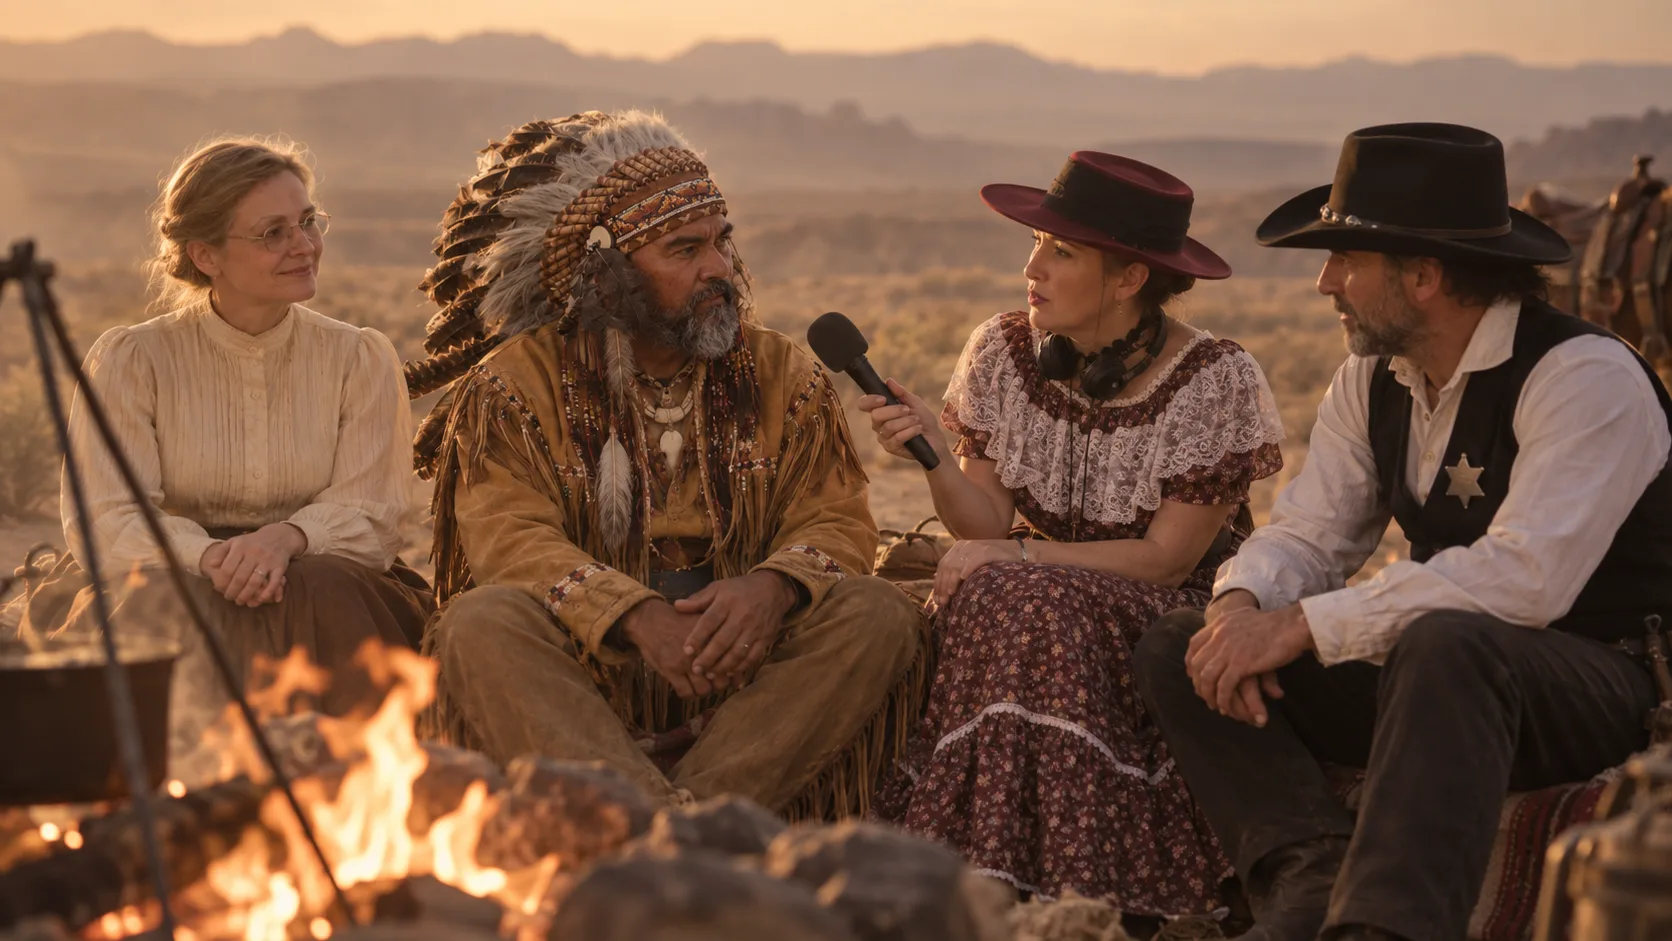
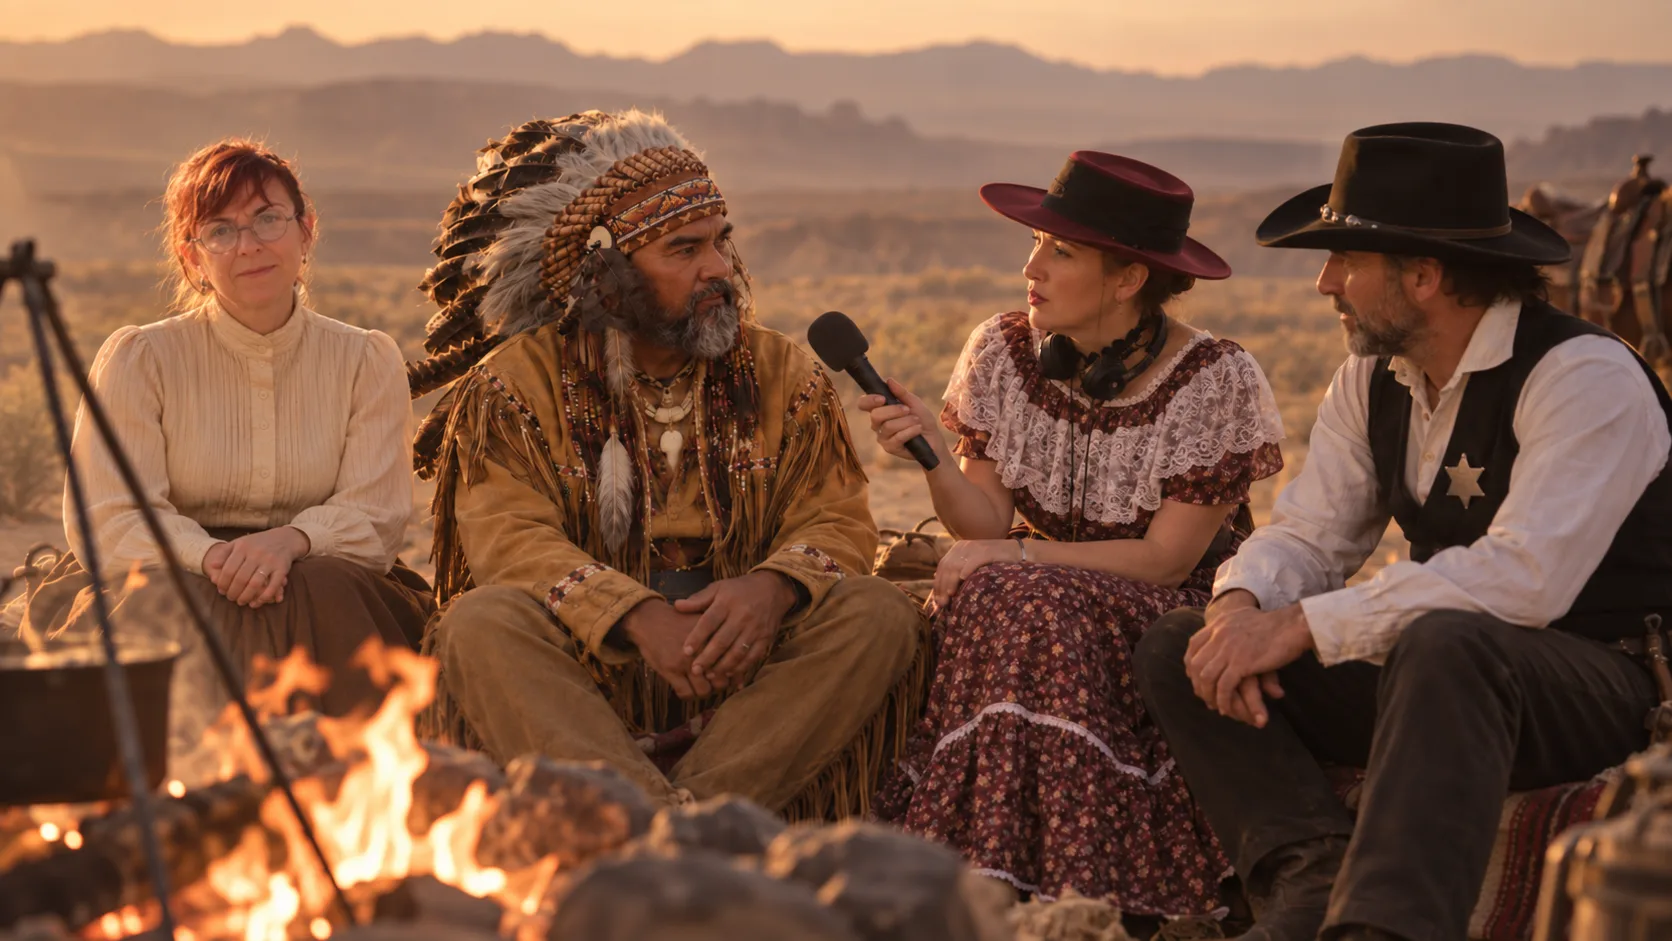
feat(propuestas): new fireside image and «Comunica tu idea» on the section's button ([58-0])

diff --git a/lib/content/media.ts b/lib/content/media.ts
@@ -202,7 +202,8 @@ export const MEDIA: Record<string, Media> = Object.fromEntries(
       license: "Imagen aportada por el promotor el 18-09-2026 (origen y licencia por confirmar)",
     },
     {
-      /** Propuestas visual column in use (JIA-2026-09-20-46): the fireside conversation about the next theme.
+      /** Propuestas visual column in use (JIA-2026-09-20-46): the fireside conversation about the next theme (second
+          version since [58-0]: same scene and framing, a different woman on the left).
           Since JIA-2026-09-20-47 the column shows it whole, with a straight edge against the band's left half
           and nothing painted over it, so the framing is the focal point's job alone. From 1280 px up the
           column's proportion is a constant 1,240 (0,53 of the window over the height of the band above), so
@@ -217,8 +218,8 @@ export const MEDIA: Record<string, Media> = Object.fromEntries(
       ],
       ratio: 1672 / 941,
       focal: { x: 78, y: 40 },
-      original: "assets/images-website/hoguera-nuevos-temas.png",
-      license: "Imagen aportada por el promotor el 20-09-2026 (origen y licencia por confirmar)",
+      original: "assets/images-website/hoguera-02.png",
+      license: "Imagen aportada por el promotor el 29-09-2026, en sustitución de la del 20-09-2026 (origen y licencia por confirmar)",
     },
     {
       /** Footer ground (JIA-2026-09-19-40): a stable in half light, a horse's legs against the door and, on the right,

diff --git a/lib/content/config/enlaces.ts b/lib/content/config/enlaces.ts
@@ -4,7 +4,7 @@
  * live in copy/es/buttons.ts; a link left `null` makes its button render as unavailable.
  */
 export const ENLACES = {
-  /** «Dispara tu idea» (section «Tu propuesta JIA»): Google Form to propose the next edition's theme. */
+  /** «Comunica tu idea» (section «Tu propuesta JIA»; «Dispara tu idea» until [58-0]): Google Form to propose the next edition's theme. */
   formularioPropuesta: "https://docs.google.com/forms/d/e/1FAIpQLSfI_UsxUpuS22csNSY0rQ4kPLPRir9Tmk4YLh7Dkv7d58ncRQ/viewform?usp=header",
   /** «Quiero acoger las JIA» (section «Dispara tu centro»): Google Form for centres offering to host an edition. */
   formularioAcoger: "https://docs.google.com/forms/d/e/1FAIpQLSe_J5mKeGUYmipuKeZvcBg3asMYh4cp8-9docFSTrjCijbeFw/viewform?usp=header",

diff --git a/lib/content/copy/es/buttons.ts b/lib/content/copy/es/buttons.ts
@@ -5,7 +5,7 @@ export const buttons: Buttons = {
   hero: { explore: "Explorar las jornadas", workshops: "Ver talleres" },
   sheet: { open: "Ver ficha", close: "Cerrar", viewDocument: "Ver documento original", viewPoster: "Ver cartel", downloadDossier: "Descargar dosier", dossierPending: "Dosier disponible próximamente" },
   dossiers: { consult: "Consultar material", view: "Ver dosier", download: "Descargar" },
-  proposals: { present: "Dispara tu idea" },
+  proposals: { present: "Comunica tu idea" },
   host: { host: "Acoger las JIA" },
   nav: { menu: "Menú", close: "Cerrar menú", submenu: "Mostrar apartados de Jornadas" },
   route: { replay: "Repetir recorrido" },
